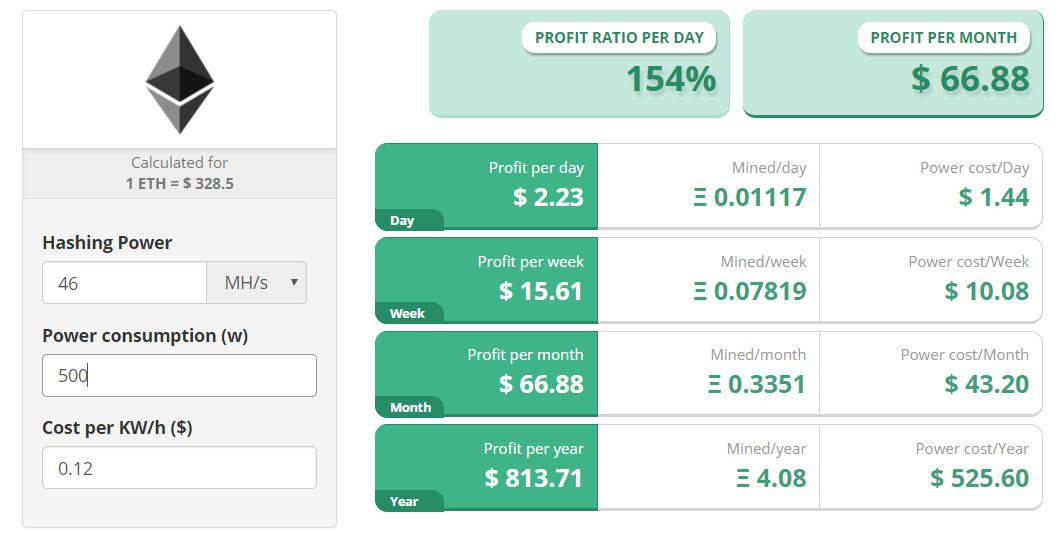
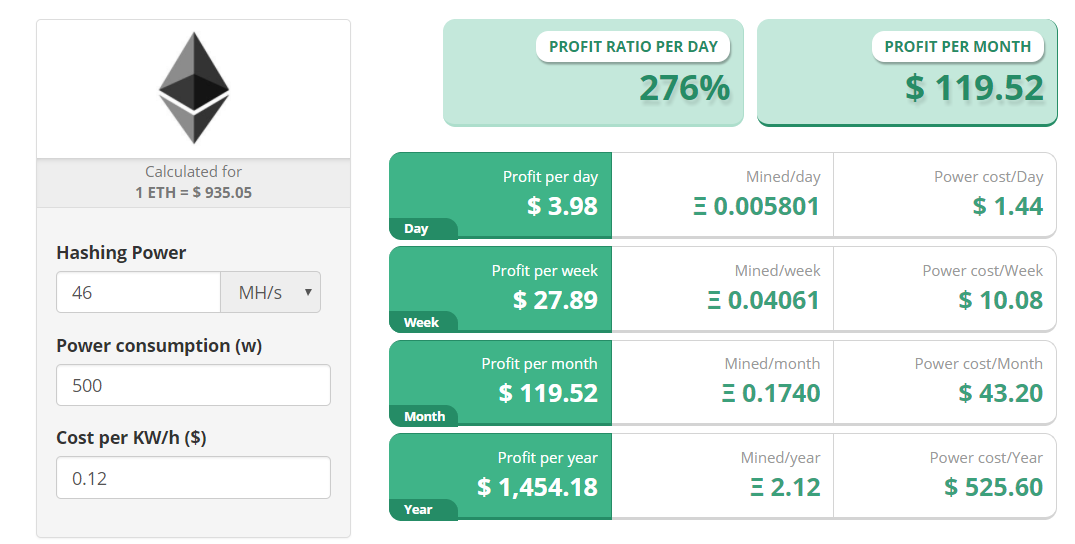
ethereum mining profitability update

diff --git a/pages/crypto-mining/ethereum-hardware/ethereum-hardware.md b/pages/crypto-mining/ethereum-hardware/ethereum-hardware.md
@@ -27,7 +27,7 @@ As we have seen with other popular cryptocurrencies such as [Zcash](/crypto-mini
 	<tr>
 		<td><a href="/crypto-mining/ethereum-hardware/r9-295-x2-review/"><img class="table-image" src="/img/cryptocurrency/gpu/r9-295-x2.png" /></a></td>
 		<td><a href="/crypto-mining/ethereum-hardware/r9-295-x2-review/">Radeon R9 295 X2</a></td>
-		<td>$1,088.64</td>
+		<td>$1,454.18</td>
 		<td><a target="_blank" class="big-button" href="http://rover.ebay.com/rover/1/711-53200-19255-0/1?icep_ff3=9&pub=5575177097&toolid=10001&campid=5338114702&customid=&icep_uq=radeon+r9+295x2&icep_sellerId=&icep_ex_kw=&icep_sortBy=12&icep_catId=&icep_minPrice=&icep_maxPrice=&ipn=psmain&icep_vectorid=229466&kwid=902099&mtid=824&kw=lg">Compare Lowest Prices</a></td>
 	</tr>
 	<tr>
@@ -56,7 +56,7 @@ If you're just looking to buy Ethereum, you should check out popular exchanges l
 
 Once you buy your Ethereum, you can exchange it for Bitcoin and other currencies on popular cryptocurrency exchanges like [Binance](https://www.binance.com/?ref=16557105). 
 
-On the other hand, if you're interested in generating passive income, **you can make over $1,000 per card!** 
+On the other hand, if you're interested in generating passive income, **you can make over $1,400 per card!** 
 
 ## Ethereum Mining Profitability 
 
@@ -64,7 +64,7 @@ Before you spend money on an expensive mining GPU, you probably want to know if 
 
 Look no further. We are here to tell you that **if you use the above mining GPUs, you'll see a great return on your investment.** 
 
-![Ethereum Mining ROI](/img/cryptocurrency/r9-295-x2-review/profit.png "Ethereum Mining ROI")
+![Ethereum Mining ROI](/img/cryptocurrency/ethereum-mining-profitability.png "Ethereum Mining ROI")
 
 As you can see, the above graph shows the return on investment of the Radeon R9 295X2. As stated previously, you'll make **over $1,000 annually per card each year.** If you invest in multiple cards, you will make even more passive income.
 
@@ -86,7 +86,7 @@ However, regular GPUs can be used to mine Ethereum. In 2018, Ethereum mining is 
 
 ### [Radeon R9 295X2](http://rover.ebay.com/rover/1/711-53200-19255-0/1?icep_ff3=9&pub=5575177097&toolid=10001&campid=5338114702&customid=&icep_uq=radeon+r9+295x2&icep_sellerId=&icep_ex_kw=&icep_sortBy=12&icep_catId=&icep_minPrice=&icep_maxPrice=&ipn=psmain&icep_vectorid=229466&kwid=902099&mtid=824&kw=lg){:target="_blank"} - $600
 
-By far the most powerful Ethereum miner, the [Radeon R9 295X2](/crypto-mining/ethereum-hardware/r9-295-x2-review/) has a hash rate of 46 MH/s, drawing 500 W from the wall. **This means you'll see a yearly return of $1,088.64 USD annually per card.** That's right, over $1,000 per card. Some might think the [GTX 1080](/crypto-mining/gtx-1080-review/) is a more powerful alternative, but they'd be wrong. **If you want to generate serious revenue by mining Ethereum, the [R9 295 X2](http://rover.ebay.com/rover/1/711-53200-19255-0/1?icep_ff3=9&pub=5575177097&toolid=10001&campid=5338114702&customid=&icep_uq=radeon+r9+295x2&icep_sellerId=&icep_ex_kw=&icep_sortBy=12&icep_catId=&icep_minPrice=&icep_maxPrice=&ipn=psmain&icep_vectorid=229466&kwid=902099&mtid=824&kw=lg){:target="_blank"} is your card of choice.**
+By far the most powerful Ethereum miner, the [Radeon R9 295X2](/crypto-mining/ethereum-hardware/r9-295-x2-review/) has a hash rate of 46 MH/s, drawing 500 W from the wall. **This means you'll see a yearly return of $1,454.18 USD annually per card.** That's right, over $1,400 per card. Some might think the [GTX 1080](/crypto-mining/gtx-1080-review/) is a more powerful alternative, but they'd be wrong. **If you want to generate serious revenue by mining Ethereum, the [R9 295 X2](http://rover.ebay.com/rover/1/711-53200-19255-0/1?icep_ff3=9&pub=5575177097&toolid=10001&campid=5338114702&customid=&icep_uq=radeon+r9+295x2&icep_sellerId=&icep_ex_kw=&icep_sortBy=12&icep_catId=&icep_minPrice=&icep_maxPrice=&ipn=psmain&icep_vectorid=229466&kwid=902099&mtid=824&kw=lg){:target="_blank"} is your card of choice.**
 
 [Read our Review](/crypto-mining/ethereum-hardware/r9-295-x2-review/){: .big-button}
 

diff --git a/pages/crypto-mining/ethereum-hardware/r9-295-x2-review.md b/pages/crypto-mining/ethereum-hardware/r9-295-x2-review.md
@@ -9,7 +9,7 @@ seotitle: "R9 295X2 Review: Good Miner for Ethereum and Other Coins?"
 
 * Hash rate (Highest among Ethereum mining GPUs)
 * Power consumption 
-* ROI (**Over $1,000 a year per card!**)
+* ROI (**Over $1,400 a year per card!**)
 
 **Cons**
 
@@ -30,7 +30,7 @@ It's a profitable currency to mine, especially with the [Radeon R9 295X2](http:/
 
 Today we're taking a look at your projected earnings with the most powerful Ethereum miner, the Radeon R9 295X2. (**They're pretty darn good!**)
 
-![Profit](/img/cryptocurrency/r9-295-x2-review/profit.png)
+![Profit](/img/cryptocurrency/ethereum-mining-profitability.png)
 
 ## The Most Powerful & Profitable Ethereum Miner on the Market
 
@@ -49,24 +49,24 @@ The Radeon R9 295X2 has the highest [hash rate](https://99bitcoins.com/what-is-b
 		<td><a target="_blank" href="http://rover.ebay.com/rover/1/711-53200-19255-0/1?icep_ff3=9&pub=5575177097&toolid=10001&campid=5338114702&customid=&icep_uq=Radeon+R9+295X2&icep_sellerId=&icep_ex_kw=&icep_sortBy=12&icep_catId=&icep_minPrice=&icep_maxPrice=&ipn=psmain&icep_vectorid=229466&kwid=902099&mtid=824&kw=lg"><img class="table-image" src="/img/cryptocurrency/gpu/r9-295-x2.png" /></a></td>
 		<td>46 MH/s</td>
 		<td>500 W</td>
-		<td>207%</td>
+		<td>276%</td>
 		<td>$600</td>
 		<td><a target="_blank" class="big-button" href="http://rover.ebay.com/rover/1/711-53200-19255-0/1?icep_ff3=9&pub=5575177097&toolid=10001&campid=5338114702&customid=&icep_uq=Radeon+R9+295X2&icep_sellerId=&icep_ex_kw=&icep_sortBy=12&icep_catId=&icep_minPrice=&icep_maxPrice=&ipn=psmain&icep_vectorid=229466&kwid=902099&mtid=824&kw=lg">View on eBay</a></td>
 	</tr>
 </table>
 
-This GPU has a hash rate of 46 MH/s, and it draws 500W from the wall. **Each GPU will have a return of $1,088.64 annually.** Evidently, it's a good choice if you're looking to mine Ethereum. 
+This GPU has a hash rate of 46 MH/s, and it draws 500W from the wall. **Each GPU will have a return of $1,454.18 annually.** Evidently, it's a good choice if you're looking to mine Ethereum. 
 
 **Specifications of the Radeon R9 295X2:**
 
 * Hash Rate: 46 MH/s
 * Power Consumption: 500W (at the wall)
-* Profit Ratio per Day: 52%
+* Profit Ratio per Day: 276%
 * Cost: $600
 
 ## Radeon R9 295X2 Mining Profitability & Payback Period 
 
-As stated previously, **you'll generate over $1,000 annually with this GPU. The Radeon R9 295X2 has a payback period of less than a year.   
+As stated previously, **you'll generate over $1,400 annually with this GPU. The Radeon R9 295X2 has a payback period of less than a year.   
 
 Your mining profitability may vary. You can use this [mining profitability calculator](https://www.cryptocompare.com/mining/calculator/eth?HashingPower=46&HashingUnit=MH%2Fs&PowerConsumption=500&CostPerkWh=0.12) to approximate your earnings! 
 
@@ -88,7 +88,7 @@ While this miner has a great annual return, the [Radeon HD 7990](/crypto-mining/
 		<td><a href="/crypto-mining/ethereum-hardware/r9-295-x2-review/">Radeon R9 295 X2</a></td>
 		<td>46 MH/s</td>
 		<td>$600</td>
-		<td>$1,088.64</td>
+		<td>$1,454.18</td>
 		<td><a target="_blank" class="big-button" href="http://rover.ebay.com/rover/1/711-53200-19255-0/1?icep_ff3=9&pub=5575177097&toolid=10001&campid=5338114702&customid=&icep_uq=radeon+r9+295x2&icep_sellerId=&icep_ex_kw=&icep_sortBy=12&icep_catId=&icep_minPrice=&icep_maxPrice=&ipn=psmain&icep_vectorid=229466&kwid=902099&mtid=824&kw=lg">Compare Lowest Prices</a></td>
 	</tr>
 	<tr>

diff --git a/pages/crypto-mining/crypto-mining.md b/pages/crypto-mining/crypto-mining.md
@@ -51,7 +51,7 @@ It is online, and cryptographically secure. Similarly to [Vertcoin](/crypto-mini
 
 Does this mean you can't make money? **Of course not!**
 
-**If you're mining with one of our suggested mining GPUs, you'll generate over $1,000 annually per card.** 
+**If you're mining with one of our suggested mining GPUs, you'll generate over $1,400 annually per card.** 
 
 [View Ethereum mining graphics cards here](/crypto-mining/ethereum-hardware/){: .big-button}
 
